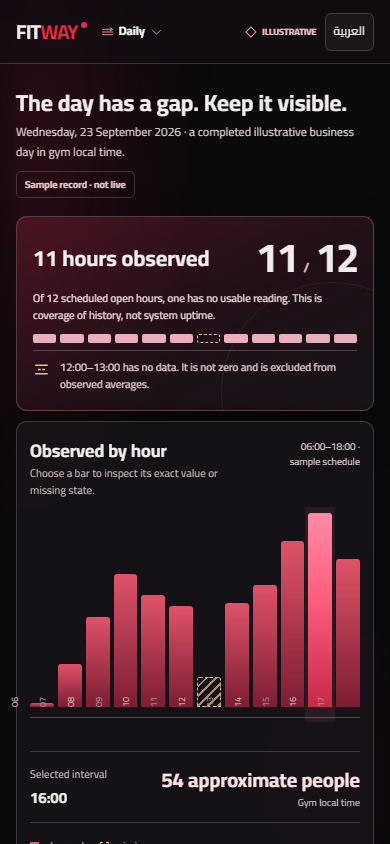
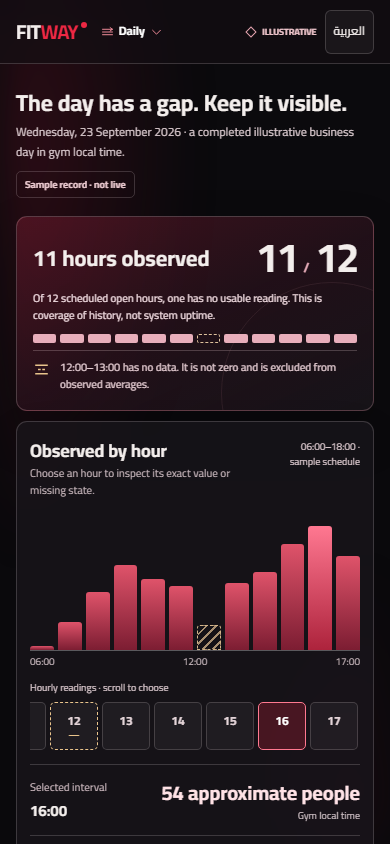
Improve signal wall mobile controls

diff --git a/design-research/owner-composition-exploration-r03/concepts/direction-04/style.css b/design-research/owner-composition-exploration-r03/concepts/direction-04/style.css
@@ -13,11 +13,12 @@ button{font:inherit;cursor:pointer}svg{width:20px;height:20px;fill:none;stroke:c
 .shell{position:relative;min-height:100vh;min-height:100svh;display:flex;flex-direction:column}.chrome{height:78px;padding-inline:clamp(22px,4.2vw,70px);display:flex;align-items:center;justify-content:space-between;gap:16px;border-bottom:1px solid var(--line);background:rgba(20,15,20,.62);backdrop-filter:blur(16px);position:relative;z-index:20}.chrome-start,.chrome-end{display:flex;align-items:center;gap:20px}.brand{font-weight:700;font-size:24px;line-height:1;letter-spacing:-.03em;white-space:nowrap}.brand span{color:var(--red)}.brand i{display:inline-block;width:6px;height:6px;background:var(--red);border-radius:50%;vertical-align:top;margin-inline-start:3px}.chrome-divider{height:28px;width:1px;background:var(--line)}
 .workspace-button{min-height:44px;display:flex;align-items:center;gap:11px;padding:5px 11px;border:0;border-radius:7px;background:transparent;color:var(--paper);font-weight:700;transition:background-color .18s ease}.workspace-button:hover{background:rgba(255,255,255,.085)}.workspace-button svg{width:16px;height:16px;color:#f38d9b}.workspace-button .current{color:#fff}.workspace-button .slash{font-size:11px;color:var(--soft);font-weight:500}
 .demo-flag{display:flex;align-items:center;gap:7px;color:#edc4ca;font-size:11px;font-weight:700;letter-spacing:.08em;white-space:nowrap}.demo-flag::before{content:"";width:8px;height:8px;border:1px solid #e6a5b0;transform:rotate(45deg)}.lang-button,.icon-button{min-height:44px;border:1px solid var(--line);border-radius:6px;background:rgba(255,255,255,.045);color:var(--paper);padding:7px 14px}.lang-button:hover,.icon-button:hover{background:rgba(255,255,255,.12)}
-.workspace-menu{position:absolute;z-index:30;top:67px;inset-inline-start:clamp(22px,4.2vw,70px);width:min(410px,calc(100vw - 44px));padding:18px;background:rgba(29,20,26,.96);backdrop-filter:blur(24px);border:1px solid rgba(255,215,224,.26);border-radius:10px;box-shadow:0 26px 60px rgba(0,0,0,.48);transform-origin:top;animation:menu-in .25s cubic-bezier(.16,.85,.2,1) both}.workspace-menu[hidden]{display:none}.menu-top{display:flex;align-items:center;justify-content:space-between;margin-block-end:13px}.menu-top strong{font-size:16px}.icon-button{width:38px;height:38px;min-height:38px;padding:0;display:grid;place-items:center}.icon-button svg{width:17px;height:17px}.workspace-menu nav{display:grid;grid-template-columns:1fr 1fr;gap:7px}.menu-link{min-height:73px;padding:12px;border:1px solid var(--line);border-radius:7px;background:rgba(255,255,255,.02);color:#d5c8cb;display:flex;align-items:center;gap:11px;text-align:start;transition:background-color .18s ease,border-color .18s ease}.menu-link:hover,.menu-link[aria-current=page]{background:rgba(237,40,67,.15);border-color:rgba(237,90,111,.57);color:#fff}.menu-link svg{width:19px;height:19px;color:#f18a9b}.workspace-menu p{margin:14px 0 0;color:var(--soft);font-size:11px}
+.workspace-menu{position:absolute;z-index:30;top:67px;inset-inline-start:clamp(22px,4.2vw,70px);width:min(410px,calc(100vw - 44px));padding:18px;background:rgba(29,20,26,.96);backdrop-filter:blur(24px);border:1px solid rgba(255,215,224,.26);border-radius:10px;box-shadow:0 26px 60px rgba(0,0,0,.48);transform-origin:top;animation:menu-in .25s cubic-bezier(.16,.85,.2,1) both}.workspace-menu[hidden]{display:none}.menu-top{display:flex;align-items:center;justify-content:space-between;margin-block-end:13px}.menu-top strong{font-size:16px}.icon-button{width:44px;height:44px;min-height:44px;padding:0;display:grid;place-items:center}.icon-button svg{width:17px;height:17px}.workspace-menu nav{display:grid;grid-template-columns:1fr 1fr;gap:7px}.menu-link{min-height:73px;padding:12px;border:1px solid var(--line);border-radius:7px;background:rgba(255,255,255,.02);color:#d5c8cb;display:flex;align-items:center;gap:11px;text-align:start;transition:background-color .18s ease,border-color .18s ease}.menu-link:hover,.menu-link[aria-current=page]{background:rgba(237,40,67,.15);border-color:rgba(237,90,111,.57);color:#fff}.menu-link svg{width:19px;height:19px;color:#f18a9b}.workspace-menu p{margin:14px 0 0;color:var(--soft);font-size:11px}
 main{width:min(1600px,100%);margin-inline:auto;padding:clamp(26px,3.8vw,58px) clamp(22px,4.2vw,70px) 70px;flex:1;min-width:0}.page-head{display:flex;align-items:start;justify-content:space-between;gap:24px;margin-block-end:26px}.page-head h1{margin:0;font-size:clamp(26px,2.5vw,38px);line-height:1.28;font-weight:700;max-width:760px}.page-head p{margin:4px 0 0;color:#d6c6ca;font-size:14px;line-height:1.65;max-width:700px}.head-meta{text-align:end;border:1px solid var(--line);padding:9px 12px;border-radius:5px;min-width:175px;color:#e7c6cc;font-size:11px;font-weight:700;line-height:1.5}
 .daily-wall{display:grid;grid-template-columns:minmax(310px,.82fr) minmax(0,1.68fr);gap:12px;min-height:595px}.status-bay{position:relative;padding:30px 29px 24px;display:flex;flex-direction:column;min-width:0;background:linear-gradient(155deg,rgba(105,25,43,.58),rgba(48,20,32,.6) 50%,rgba(26,22,28,.79));border:1px solid rgba(255,202,213,.23);border-radius:13px;overflow:hidden;box-shadow:0 22px 50px rgba(0,0,0,.19)}.status-bay::after{content:"";position:absolute;inset-inline-end:-70px;inset-block-start:65px;width:220px;height:220px;border:1px solid rgba(255,180,194,.09);border-radius:50%;pointer-events:none}.status-symbol{width:28px;height:28px;color:#f7a6b5}.status-bay h2{font-size:clamp(29px,3vw,45px);line-height:1.2;max-width:360px;margin:24px 0 11px}.status-bay p{color:#efdadf;line-height:1.7;margin:0;max-width:365px}.big-ratio{font-size:clamp(56px,7vw,108px);letter-spacing:-.05em;line-height:1.2;font-weight:700;margin-block:auto 7px;white-space:nowrap}.big-ratio small{font-size:.32em;color:#e6acb9;letter-spacing:0;margin-inline:6px}.ratio-label{font-size:13px;color:#ebd0d6}.coverage-track{display:grid;grid-template-columns:repeat(12,minmax(0,1fr));gap:4px;margin-block:28px 13px}.coverage-track span{height:9px;background:#e8aebb;border-radius:2px}.coverage-track span.missing{background:transparent;border:1px dashed #dec19c}.status-foot{display:flex;align-items:flex-start;gap:10px;border-top:1px solid rgba(255,226,232,.22);padding-block-start:17px;font-size:12px;color:#e1c9cf;line-height:1.6}.status-foot svg{color:var(--amber);width:17px;height:17px;margin-block-start:2px}
 .signal-bay{border:1px solid var(--line);border-radius:13px;background:rgba(27,25,31,.62);backdrop-filter:blur(13px);display:flex;flex-direction:column;padding:27px 28px 24px;min-width:0;box-shadow:0 20px 48px rgba(0,0,0,.11)}.signal-top{display:flex;justify-content:space-between;align-items:start;gap:20px}.signal-top h2{font-size:23px;line-height:1.3;margin:0}.signal-top p{margin:3px 0 0;color:#c4b4b9;font-size:12px}.signal-top .sample-stamp{font-size:11px;color:#d7c5ca;text-align:end;white-space:nowrap}
 .bar-chart{display:grid;grid-template-columns:repeat(12,minmax(0,1fr));gap:8px;align-items:end;flex:1;min-height:260px;padding-block:26px 16px;margin-block:20px 0;border-bottom:1px solid rgba(255,255,255,.24)}.bar-slot{width:100%;min-height:260px;display:flex;flex-direction:column;align-items:center;justify-content:flex-end;gap:8px;padding:0 0 0;border:0;background:transparent;color:#c7b9be;position:relative}.bar-slot::before{content:"";position:absolute;inset:-6px -3px -15px;border-radius:3px;background:transparent;transition:background-color .18s ease}.bar-slot:hover::before,.bar-slot[aria-pressed=true]::before{background:rgba(244,109,134,.09)}.bar-fill{height:var(--bar);width:100%;max-width:42px;min-height:4px;background:linear-gradient(to top,#7c1d32,#df536a);border-radius:3px 3px 0 0;position:relative;transition:background-color .18s ease,filter .18s ease}.bar-slot[aria-pressed=true] .bar-fill{background:linear-gradient(to top,#ad233c,#ff7891);filter:brightness(1.15)}.bar-slot.missing .bar-fill{height:30px;min-height:30px;background:repeating-linear-gradient(135deg,transparent 0 5px,rgba(230,196,151,.7) 5px 7px);border:1px dashed #d3b489}.bar-slot .hour{position:absolute;inset-block-end:-27px;font-size:11px;color:#c6b6bb;white-space:nowrap}.bar-slot:nth-child(even) .hour{color:#a9989e}
+.mobile-signal-chart,.hour-selector-label,.hour-selector{display:none}
 .signal-detail{min-height:96px;margin-block-start:46px;display:flex;justify-content:space-between;align-items:center;gap:15px;border-top:1px solid var(--line);border-bottom:1px solid var(--line);padding-block:13px}.detail-copy{display:grid;gap:3px}.detail-copy span{color:#c8b5bb;font-size:12px}.detail-copy strong{font-size:20px}.detail-value{text-align:end;font-size:24px;font-weight:700;color:#ffe2e6}.detail-value small{display:block;font-size:11px;font-weight:500;color:#c7b9be}.signal-legend{display:flex;justify-content:space-between;gap:15px;color:#c9b9bd;font-size:12px;margin-block-start:15px}.legend-items{display:flex;gap:16px;flex-wrap:wrap}.legend-items span{display:flex;align-items:center;gap:6px}.legend-items i{display:inline-block;width:9px;height:9px;background:#d85e74}.legend-items .gap-icon{background:transparent;border:1px dashed var(--amber)}.signal-legend p{margin:0;text-align:end}
 .evidence-strip{display:grid;grid-template-columns:repeat(3,1fr);gap:12px;margin-block-start:12px}.evidence-item{border-top:2px solid #a74155;padding:18px 14px 15px;background:rgba(29,24,30,.46);min-height:112px}.evidence-item:nth-child(2){border-top-color:#aebfc8}.evidence-item:nth-child(3){border-top-color:#ddba88}.evidence-item strong{display:block;font-size:20px;line-height:1.2}.evidence-item span{display:block;font-size:12px;color:#d6c7cb;margin-block-start:7px}.evidence-item p{font-size:11px;color:#bdaeb2;margin:3px 0 0}
 .activity-layout{display:grid;grid-template-columns:minmax(0,1.55fr) minmax(300px,.55fr);gap:16px}.record-well{min-width:0;border:1px solid var(--line);border-radius:13px;background:rgba(25,23,28,.65);overflow:hidden}.well-heading{padding:18px 22px;border-bottom:1px solid var(--line);display:flex;justify-content:space-between;align-items:center;gap:15px}.well-heading strong{font-size:14px}.well-heading span{font-size:12px;color:#c1b1b7}.event{border-bottom:1px solid var(--line)}.event:last-child{border-bottom:0}.event-button{width:100%;border:0;background:transparent;color:var(--paper);display:grid;grid-template-columns:88px minmax(0,1fr) 24px;gap:18px;text-align:start;align-items:center;padding:20px 22px;min-height:94px;transition:background-color .18s ease}.event-button:hover,.event-button[aria-expanded=true]{background:rgba(123,41,60,.16)}.event-time{display:grid;gap:2px;font-size:12px;color:#c1afb5}.event-time bdi{font-weight:700;font-size:16px;color:#f3e7e9}.event-title{font-size:17px;font-weight:700;line-height:1.35}.event-meta{display:block;font-size:12px;color:#c4b2b7;margin-block-start:4px;font-weight:500}.event-button svg{width:16px;height:16px;color:#f07f91;transition:transform .2s ease}.event-button[aria-expanded=true] svg{transform:rotate(180deg)}.event-detail{padding:0 22px 20px 128px;background:rgba(123,41,60,.16);display:grid;grid-template-columns:repeat(2,minmax(0,1fr));gap:10px 17px}.event-detail[hidden]{display:none}.detail-field{border-top:1px solid rgba(255,217,224,.2);padding-block-start:8px;font-size:12px;min-width:0}.detail-field span{display:block;color:#bda8ae}.detail-field strong{display:block;color:#f7e8ea;font-size:13px;font-weight:600;overflow-wrap:anywhere}.detail-field.reason{grid-column:1/-1}
@@ -26,10 +27,11 @@ main{width:min(1600px,100%);margin-inline:auto;padding:clamp(26px,3.8vw,58px) cl
 footer{display:flex;justify-content:space-between;gap:20px;border-top:1px solid var(--line);padding:19px clamp(22px,4.2vw,70px);color:#bcaab0;font-size:11px}
 @keyframes menu-in{from{opacity:.55;transform:translateY(-8px);filter:blur(4px)}to{opacity:1;transform:translateY(0);filter:blur(0)}}@keyframes select-in{from{opacity:.6;transform:translateY(5px)}to{opacity:1;transform:translateY(0)}}.selection-enter{animation:select-in .25s cubic-bezier(.15,.82,.2,1) both}
 @media(max-width:1050px){.daily-wall{grid-template-columns:minmax(260px,.85fr) minmax(0,1.15fr)}.status-bay{padding:23px}.signal-bay{padding:22px}.bar-chart{gap:5px}.evidence-strip{grid-template-columns:1fr 1fr 1fr}.activity-layout{grid-template-columns:1fr 280px}}
-@media(max-width:720px){.chrome{height:64px;padding-inline:16px}.chrome-start,.chrome-end{gap:8px}.brand{font-size:20px}.chrome-divider{display:none}.workspace-button{padding:4px 6px;gap:5px;font-size:12px}.workspace-button .slash{display:none}.workspace-button svg{width:13px}.demo-flag{font-size:9px;letter-spacing:0}.demo-flag::before{width:6px;height:6px}.lang-button{padding:5px 8px;font-size:12px;min-height:38px}.workspace-menu{position:fixed;inset-inline:0;top:auto;bottom:0;width:100%;border-radius:14px 14px 0 0;max-height:calc(100svh - 64px);overflow:auto;box-shadow:0 -20px 50px rgba(0,0,0,.55);animation:menu-in .25s cubic-bezier(.16,.85,.2,1) both;transform-origin:bottom}.workspace-menu nav{grid-template-columns:1fr 1fr}.menu-link{min-height:65px}
+@media(max-width:720px){.chrome{height:64px;padding-inline:16px}.chrome-start,.chrome-end{gap:8px}.brand{font-size:20px}.chrome-divider{display:none}.workspace-button{padding:4px 6px;gap:5px;font-size:12px}.workspace-button .slash{display:none}.workspace-button svg{width:13px}.demo-flag{font-size:9px;letter-spacing:0}.demo-flag::before{width:6px;height:6px}.lang-button{padding:5px 8px;font-size:12px;min-width:44px;min-height:44px}.workspace-menu{position:fixed;inset-inline:0;top:auto;bottom:0;width:100%;border-radius:14px 14px 0 0;max-height:calc(100svh - 64px);overflow:auto;box-shadow:0 -20px 50px rgba(0,0,0,.55);animation:menu-in .25s cubic-bezier(.16,.85,.2,1) both;transform-origin:bottom}.workspace-menu nav{grid-template-columns:1fr 1fr}.menu-link{min-height:65px}
 main{padding:24px 16px 48px}.page-head{margin-block-end:18px;display:block}.page-head h1{font-size:23px;line-height:1.3}.page-head p{font-size:12px;margin-block-start:4px}.head-meta{display:inline-block;margin-block-start:10px;text-align:start;min-width:0;font-size:10px;padding:5px 8px}.daily-wall{display:block;min-height:0}.status-bay{min-height:255px;padding:18px 19px 16px;border-radius:11px}.status-symbol{width:22px;height:22px}.status-bay h2{font-size:24px;margin:12px 0 6px}.status-bay p{font-size:12px;line-height:1.55}.big-ratio{font-size:55px;margin:12px 0 0}.ratio-label{font-size:11px}.coverage-track{margin-block:16px 10px}.status-foot{font-size:11px;padding-block-start:10px}.signal-bay{margin-block-start:10px;border-radius:11px;padding:17px 13px 15px}.signal-top h2{font-size:18px}.signal-top p{font-size:11px}.signal-top .sample-stamp{font-size:10px;white-space:normal;max-width:90px}.bar-chart{min-height:188px;gap:4px;padding-block:6px 10px;margin-block:8px 0}.bar-slot{min-height:180px}.bar-fill{max-width:25px}.bar-slot .hour{font-size:9px;inset-block-end:-22px;writing-mode:vertical-rl;transform:rotate(180deg)}[dir=rtl] .bar-slot .hour{transform:none}.signal-detail{margin-block-start:33px;min-height:72px;padding-block:9px}.detail-copy strong{font-size:15px}.detail-copy span{font-size:11px}.detail-value{font-size:20px}.detail-value small{font-size:10px}.signal-legend{font-size:10px;display:block}.signal-legend p{text-align:start;margin-block-start:5px}.evidence-strip{display:grid;grid-template-columns:1fr 1fr;gap:8px;margin-block-start:10px}.evidence-item{min-height:95px;padding:10px}.evidence-item strong{font-size:16px}.evidence-item span,.evidence-item p{font-size:10px}.evidence-item:last-child{grid-column:1/-1;min-height:75px}
 .activity-layout{display:block}.record-well{border-radius:11px}.well-heading{padding:12px 14px}.event-button{grid-template-columns:59px minmax(0,1fr) 15px;gap:9px;padding:14px 12px;min-height:80px}.event-time{font-size:10px}.event-time bdi{font-size:13px}.event-title{font-size:13px}.event-meta{font-size:10px}.event-button svg{width:13px;height:13px}.event-detail{padding:0 12px 15px 80px;gap:8px}.detail-field{font-size:10px}.detail-field strong{font-size:11px}.activity-console{min-height:0;padding:17px;margin-block-start:10px}.activity-console h2{font-size:16px}.activity-console p{font-size:12px}.range-switch{margin-block-start:15px}.console-bottom{margin-block-start:18px}.stub{display:block}.stub-intro,.stub-body{padding:20px;border-radius:11px}.stub-body{margin-block-start:10px}.stub-intro h1{font-size:24px}footer{padding:17px 16px;display:block}footer span{display:block}
 }
 @media(max-width:350px){.demo-flag{display:none}.workspace-button{font-size:11px}.brand{font-size:18px}.bar-chart{gap:2px}.bar-slot .hour{font-size:8px}.signal-top .sample-stamp{display:none}}
 @media(prefers-reduced-motion:reduce){html{scroll-behavior:auto}*,*::before,*::after{transition-duration:.001ms!important;animation-duration:.001ms!important;animation-iteration-count:1!important}}
 @media(max-width:720px){.status-bay{display:grid;grid-template-columns:minmax(0,1fr) auto;align-items:center;gap:7px 10px;min-height:0;padding:16px}.status-bay>svg{display:none}.status-bay h2{grid-column:1;grid-row:1;margin:0;font-size:22px}.big-ratio{grid-column:2;grid-row:1;margin:0;font-size:41px}.status-bay p{grid-column:1/-1;grid-row:2;font-size:11px}.ratio-label{display:none}.coverage-track{grid-column:1/-1;grid-row:3;margin:3px 0 0}.status-foot{grid-column:1/-1;grid-row:4;margin:0;padding-block-start:8px}}
+@media(max-width:720px){.bar-chart{display:none}.mobile-signal-chart{display:block;margin-block-start:13px}.mobile-bars{height:139px;display:grid;grid-template-columns:repeat(12,minmax(0,1fr));gap:4px;align-items:end;border-bottom:1px solid rgba(255,255,255,.3)}.mobile-bar{height:138px;display:flex;align-items:end;justify-content:center;min-width:0}.mobile-bar i{display:block;width:100%;height:var(--mobile-bar);max-width:32px;min-height:4px;background:linear-gradient(to top,#7c1d32,#df536a);border-radius:3px 3px 0 0}.mobile-bar.selected i{background:linear-gradient(to top,#ad233c,#ff7891)}.mobile-bar.missing i{height:25px;background:repeating-linear-gradient(135deg,transparent 0 5px,rgba(230,196,151,.7) 5px 7px);border:1px dashed #d3b489}.mobile-times{display:flex;justify-content:space-between;margin-block-start:3px;font-size:10px;color:#c6b6bb}.hour-selector-label{display:block;margin-block-start:10px;font-size:10px;color:#d7c5ca}.hour-selector{display:grid;grid-template-columns:repeat(12,48px);gap:4px;width:100%;max-width:100%;overflow-x:auto;overflow-y:hidden;margin-block-start:5px;padding:2px 2px 6px;scrollbar-width:thin;scrollbar-color:#916b75 transparent}.hour-choice{width:48px;min-width:48px;min-height:48px;border:1px solid var(--line);border-radius:5px;background:rgba(255,255,255,.045);color:#e4d4d8;display:flex;flex-direction:column;align-items:center;justify-content:center;line-height:1.2;padding:3px}.hour-choice bdi{font-size:12px;font-weight:700}.hour-choice span{height:10px;font-size:10px;color:var(--amber)}.hour-choice[aria-pressed=true]{border-color:#ff7990;background:rgba(237,40,67,.23);color:#fff}.hour-choice.missing{border-style:dashed;border-color:var(--amber)}.signal-detail{margin-block-start:8px}}

diff --git a/design-research/owner-composition-exploration-r03/concepts/direction-04/app.js b/design-research/owner-composition-exploration-r03/concepts/direction-04/app.js
@@ -14,6 +14,7 @@ const copy = {
 		demo: "ILLUSTRATIVE",
 		language: "العربية",
 		languageLabel: "Switch to Arabic",
+		navLabel: "Owner workspace sections",
 		closeMenu: "Close workspace switcher",
 		footer: "Direction 04 · Evidence Desk / Signal Wall",
 		skip: "Skip to content",
@@ -29,7 +30,8 @@ const copy = {
 			ratioA11y: "11 of 12 scheduled hours",
 			gap: "12:00–13:00 has no data. It is not zero and is excluded from observed averages.",
 			signalTitle: "Observed by hour",
-			signalHelp: "Choose a bar to inspect its exact value or missing state.",
+			signalHelp: "Choose an hour to inspect its exact value or missing state.",
+			chooseHour: "Hourly readings · scroll to choose",
 			signalStamp: "06:00–18:00 · sample schedule",
 			selected: "Selected interval",
 			count: "approximate people",
@@ -175,7 +177,8 @@ const copy = {
 		menuFoot: "استكشاف تصميم · بلا بيانات إنتاج",
 		demo: "قيم توضيحية",
 		language: "English",
-		languageLabel: "Switch to English",
+		languageLabel: "التبديل إلى الإنجليزية",
+		navLabel: "أقسام مساحة المالك",
 		closeMenu: "إغلاق قائمة الأقسام",
 		footer: "التوجه 04 · مكتب الأدلة والإشارات",
 		skip: "تخطّ إلى المحتوى",
@@ -191,7 +194,8 @@ const copy = {
 			ratioA11y: "11 من 12 ساعة مجدولة",
 			gap: "لا توجد بيانات من 12:00 إلى 13:00. ليست صفرًا ولا تدخل في متوسط المرصود.",
 			signalTitle: "القراءات حسب الساعة",
-			signalHelp: "اختر عمودًا لمعرفة القيمة الدقيقة أو حالة غياب البيانات.",
+			signalHelp: "اختر ساعة لمعرفة القيمة الدقيقة أو حالة غياب البيانات.",
+			chooseHour: "القراءات بالساعة · مرّر للاختيار",
 			signalStamp: "06:00–18:00 · جدول توضيحي",
 			selected: "الفترة المختارة",
 			count: "شخصًا تقريبًا",
@@ -405,16 +409,34 @@ function daily() {
 			return `<button type="button" class="bar-slot ${hour.missing ? "missing" : ""}" data-hour="${index}" aria-label="${safe(label)}" aria-pressed="${index === selectedHour}" style="--bar:${h}px"><span class="bar-fill"></span><span class="hour"><bdi>${hour.time.slice(0, 2)}</bdi></span></button>`;
 		})
 		.join("");
+	const mobileBars = hours
+		.map((hour, index) => {
+			const h = hour.missing
+				? 25
+				: Math.max(4, Math.round((hour.value / 60) * 138));
+			return `<span class="mobile-bar ${hour.missing ? "missing" : ""} ${index === selectedHour ? "selected" : ""}" style="--mobile-bar:${h}px"><i></i></span>`;
+		})
+		.join("");
+	const hourChoices = hours
+		.map((hour, index) => {
+			const label = hour.missing
+				? `${hour.time}: ${t.missing}`
+				: `${hour.time}: ${hour.value} ${t.count}`;
+			return `<button type="button" class="hour-choice ${hour.missing ? "missing" : ""}" data-hour="${index}" aria-label="${safe(label)}" aria-pressed="${index === selectedHour}"><bdi>${hour.time.slice(0, 2)}</bdi><span aria-hidden="true">${hour.missing ? "—" : ""}</span></button>`;
+		})
+		.join("");
+	const desktopChart = `<div class="bar-chart" role="group" aria-label="${safe(t.signalTitle)}">${bars}</div>`;
+	const mobileChart = `<div class="mobile-signal-chart" aria-hidden="true"><div class="mobile-bars">${mobileBars}</div><div class="mobile-times"><bdi>06:00</bdi><bdi>12:00</bdi><bdi>17:00</bdi></div></div><div class="hour-selector-label">${safe(t.chooseHour)}</div><div class="hour-selector" role="group" aria-label="${safe(t.chooseHour)}">${hourChoices}</div>`;
 	const chosen = hours[selectedHour];
 	const detail = chosen.missing
 		? t.missing
 		: chosen.value === 0
 			? t.zero
 			: `${chosen.value} ${t.count}`;
-	return (
+	const markup =
 		pageHead(t.title, t.intro, t.stamp) +
-		`<div class="daily-wall"><section class="status-bay" aria-labelledby="coverage-title">${svg("signal")}<h2 id="coverage-title">${safe(t.statusTitle)}</h2><p>${safe(t.statusBody)}</p><div class="big-ratio" aria-label="${safe(t.ratioA11y)}"><bdi dir="ltr">11<small>/</small>12</bdi></div><div class="ratio-label">${safe(t.ratioLabel)}</div><div class="coverage-track" aria-hidden="true">${hours.map((h) => `<span class="${h.missing ? "missing" : ""}"></span>`).join("")}</div><div class="status-foot">${svg("gap")}<span>${safe(t.gap)}</span></div></section><section class="signal-bay" aria-labelledby="signal-title"><div class="signal-top"><div><h2 id="signal-title">${safe(t.signalTitle)}</h2><p>${safe(t.signalHelp)}</p></div><span class="sample-stamp"><bdi>${safe(t.signalStamp)}</bdi></span></div><div class="bar-chart" role="group" aria-label="${safe(t.signalTitle)}">${bars}</div><div class="signal-detail"><div class="detail-copy"><span>${safe(t.selected)}</span><strong><bdi>${chosen.time}</bdi></strong></div><div class="detail-value">${safe(detail)}<small>${safe(t.selectedTime)}</small></div></div><div class="signal-legend"><div class="legend-items"><span><i></i>${safe(t.observed)}</span><span><i class="gap-icon"></i>${safe(t.absent)}</span></div><p>${safe(t.count)}</p></div></section></div><div class="evidence-strip"><div class="evidence-item"><strong><bdi>54</bdi></strong><span>${safe(t.peak)}</span><p>${safe(t.peakNote)}</p></div><div class="evidence-item"><strong><bdi dir="ltr">${safe(t.coverageValue)}</bdi> <small>${safe(t.coverageUnit)}</small></strong><span>${safe(t.coverage)}</span><p>${safe(t.coverageNote)}</p></div><div class="evidence-item"><strong><bdi>${safe(t.crossingsValue)}</bdi></strong><span>${safe(t.crossings)}</span><p>${safe(t.crossingsNote)}</p></div></div><div class="sr-only"><table><caption>${safe(t.signalTitle)}</caption><thead><tr><th>${safe(t.timeHead)}</th><th>${safe(t.valueHead)}</th></tr></thead><tbody>${hours.map((h) => `<tr><td>${h.time}</td><td>${h.missing ? safe(t.missing) : h.value}</td></tr>`).join("")}</tbody></table></div>`
-	);
+		`<div class="daily-wall"><section class="status-bay" aria-labelledby="coverage-title">${svg("signal")}<h2 id="coverage-title">${safe(t.statusTitle)}</h2><p>${safe(t.statusBody)}</p><div class="big-ratio" aria-label="${safe(t.ratioA11y)}"><bdi dir="ltr">11<small>/</small>12</bdi></div><div class="ratio-label">${safe(t.ratioLabel)}</div><div class="coverage-track" aria-hidden="true">${hours.map((h) => `<span class="${h.missing ? "missing" : ""}"></span>`).join("")}</div><div class="status-foot">${svg("gap")}<span>${safe(t.gap)}</span></div></section><section class="signal-bay" aria-labelledby="signal-title"><div class="signal-top"><div><h2 id="signal-title">${safe(t.signalTitle)}</h2><p>${safe(t.signalHelp)}</p></div><span class="sample-stamp"><bdi>${safe(t.signalStamp)}</bdi></span></div><div class="bar-chart" role="group" aria-label="${safe(t.signalTitle)}">${bars}</div><div class="signal-detail"><div class="detail-copy"><span>${safe(t.selected)}</span><strong><bdi>${chosen.time}</bdi></strong></div><div class="detail-value">${safe(detail)}<small>${safe(t.selectedTime)}</small></div></div><div class="signal-legend"><div class="legend-items"><span><i></i>${safe(t.observed)}</span><span><i class="gap-icon"></i>${safe(t.absent)}</span></div><p>${safe(t.count)}</p></div></section></div><div class="evidence-strip"><div class="evidence-item"><strong><bdi>54</bdi></strong><span>${safe(t.peak)}</span><p>${safe(t.peakNote)}</p></div><div class="evidence-item"><strong><bdi dir="ltr">${safe(t.coverageValue)}</bdi> <small>${safe(t.coverageUnit)}</small></strong><span>${safe(t.coverage)}</span><p>${safe(t.coverageNote)}</p></div><div class="evidence-item"><strong><bdi>${safe(t.crossingsValue)}</bdi></strong><span>${safe(t.crossings)}</span><p>${safe(t.crossingsNote)}</p></div></div><div class="sr-only"><table><caption>${safe(t.signalTitle)}</caption><thead><tr><th>${safe(t.timeHead)}</th><th>${safe(t.valueHead)}</th></tr></thead><tbody>${hours.map((h) => `<tr><td>${h.time}</td><td>${h.missing ? safe(t.missing) : h.value}</td></tr>`).join("")}</tbody></table></div>`;
+	return markup.replace(desktopChart, `${desktopChart}${mobileChart}`);
 }
 function activity() {
 	const t = copy[language].activity;
@@ -450,6 +472,7 @@ function render() {
 	byId("menuTitle").textContent = t.menu;
 	byId("closeMenu").setAttribute("aria-label", t.closeMenu);
 	byId("menuFoot").textContent = t.menuFoot;
+	byId("menuLinks").setAttribute("aria-label", t.navLabel);
 	byId("menuLinks").innerHTML = menuMarkup();
 	byId("demoFlag").textContent = t.demo;
 	byId("langButton").textContent = t.language;
@@ -461,6 +484,14 @@ function render() {
 			: section === "activity"
 				? activity()
 				: stub();
+	const hourSelector = byId("main").querySelector(".hour-selector");
+	if (hourSelector && matchMedia("(max-width: 720px)").matches) {
+		const active = hourSelector.querySelector('[aria-pressed="true"]');
+		const area = hourSelector.getBoundingClientRect();
+		const target = active.getBoundingClientRect();
+		hourSelector.scrollLeft +=
+			target.left + target.width / 2 - (area.left + area.width / 2);
+	}
 	closeWorkspace();
 	setLocation();
 }
@@ -486,7 +517,13 @@ document.addEventListener("click", (event) => {
 		selectedHour = Number(bar.dataset.hour);
 		const label = bar.getAttribute("aria-label");
 		render();
-		byId("main").querySelector(`[data-hour="${selectedHour}"]`).focus();
+		byId("main")
+			.querySelector(
+				matchMedia("(max-width: 720px)").matches
+					? `.hour-choice[data-hour="${selectedHour}"]`
+					: `.bar-slot[data-hour="${selectedHour}"]`,
+			)
+			.focus();
 		byId("main")
 			.querySelector(".signal-detail")
 			.classList.add("selection-enter");

diff --git a/design-research/owner-composition-exploration-r03/concepts/direction-04/index.html b/design-research/owner-composition-exploration-r03/concepts/direction-04/index.html
@@ -37,8 +37,8 @@
       </div>
     </header>
     <div id="workspaceMenu" class="workspace-menu" hidden>
-      <div class="menu-top"><strong id="menuTitle"></strong><button id="closeMenu" type="button" class="icon-button" aria-label="Close menu"><svg><use href="#ic-close"/></svg></button></div>
-      <nav id="menuLinks" aria-label="Owner workspace"></nav>
+      <div class="menu-top"><strong id="menuTitle"></strong><button id="closeMenu" type="button" class="icon-button" aria-label="إغلاق قائمة الأقسام"><svg><use href="#ic-close"/></svg></button></div>
+      <nav id="menuLinks" aria-label="أقسام مساحة المالك"></nav>
       <p id="menuFoot"></p>
     </div>
     <main id="main" tabindex="-1"></main>

diff --git a/design-research/owner-composition-exploration-r03/concepts/direction-04/README.md b/design-research/owner-composition-exploration-r03/concepts/direction-04/README.md
@@ -14,11 +14,12 @@ This world is deliberately different from an editorial journal: its navigation i
 - One square-ended 1.8px SVG stroke family covers switching, chart, reports, access, activity, operations, settings, and gap states. Labels and position carry meaning alongside color.
 - Cairo is self-hosted at actual 400/500/600/700 weights. Both languages use Western numerals. Arabic is RTL with a true RTL time flow; the complete 11/12 and 660/720 fractions are explicitly isolated LTR so their numerator and denominator keep the correct order. English is LTR.
 - The six-section switcher shows all destinations in two columns without clipping. Its mobile panel rises from the bottom; Escape or the close control returns focus to the trigger.
-- Controls have persistent accessible names, visible keyboard focus, and scoped polite feedback.
+- Mobile keeps all 12 rectangular signal bars in one non-interactive overview, including the hatched missing hour. A separate horizontal hour selector uses 48×48px, non-overlapping buttons and opens with the selected hour visible. The missing hour remains selectable and explicitly says "no data." The language and switcher-close controls meet 44×44px.
+- Controls have persistent accessible names, visible keyboard focus, and scoped polite feedback. The switcher's navigation landmark and language-switch label are localized in Arabic.
 
 ## Interaction and motion
 
-- Select an hourly bar by mouse, touch, or keyboard. The time, value, or missing state updates in a persistent detail row, and focus stays on the selected bar.
+- Select an hourly bar on desktop or an hour button beneath the complete chart on mobile by mouse, touch, or keyboard. The time, value, or missing state updates in a persistent detail row, and focus stays on the selected control.
 - Open an Activity Log event to reveal actor, before, after, and reason. Focus remains on the event button. The first event is open on entry so a full record is immediately visible.
 - The 7/30-day control updates the example record set in place and names the new scope.
 - The switcher and selected detail settle with a short blur/translation reveal. Background, readings and chart bars remain still at rest. Reduced-motion preference makes these changes effectively instantaneous.
@@ -43,4 +44,4 @@ node design-research/owner-composition-exploration-r03/concepts/direction-04/pre
 node design-research/owner-composition-exploration-r03/concepts/direction-04/verify.mjs
 ```
 
-The static preview listens only on `127.0.0.1:3114`. Query examples: `?section=daily&lang=en` and `?section=activity&lang=ar`. The `evidence/` directory contains exact Daily and Activity Log viewport PNGs in EN/AR at 1440×900 and 390×844. The verification script checks switcher/Escape, bar detail and focus, event expansion and focus, range feedback, RTL, horizontal overflow at 320/390/720/1440, reduced-motion behavior and runtime page errors. A 720px CSS viewport approximates 1440px desktop reflow at 200%. The coordinator owns the cross-direction visual comparison and acceptance gate.
+The static preview listens only on `127.0.0.1:3114`. Query examples: `?section=daily&lang=en` and `?section=activity&lang=ar`. The `evidence/` directory contains exact Daily and Activity Log viewport PNGs in EN/AR at 1440×900 and 390×844. The verification script refreshes those frames and checks switcher/Escape/close recovery, 48px non-overlapping hour targets at 320/390/720, keyboard selection and focus, event expansion, range feedback, localized labels, RTL fractions, horizontal reflow at 320/390/720/1440, reduced motion, no external requests, and no runtime page errors. A 720px CSS viewport approximates 1440px desktop reflow at 200%. The coordinator owns the cross-direction visual comparison and acceptance gate.
